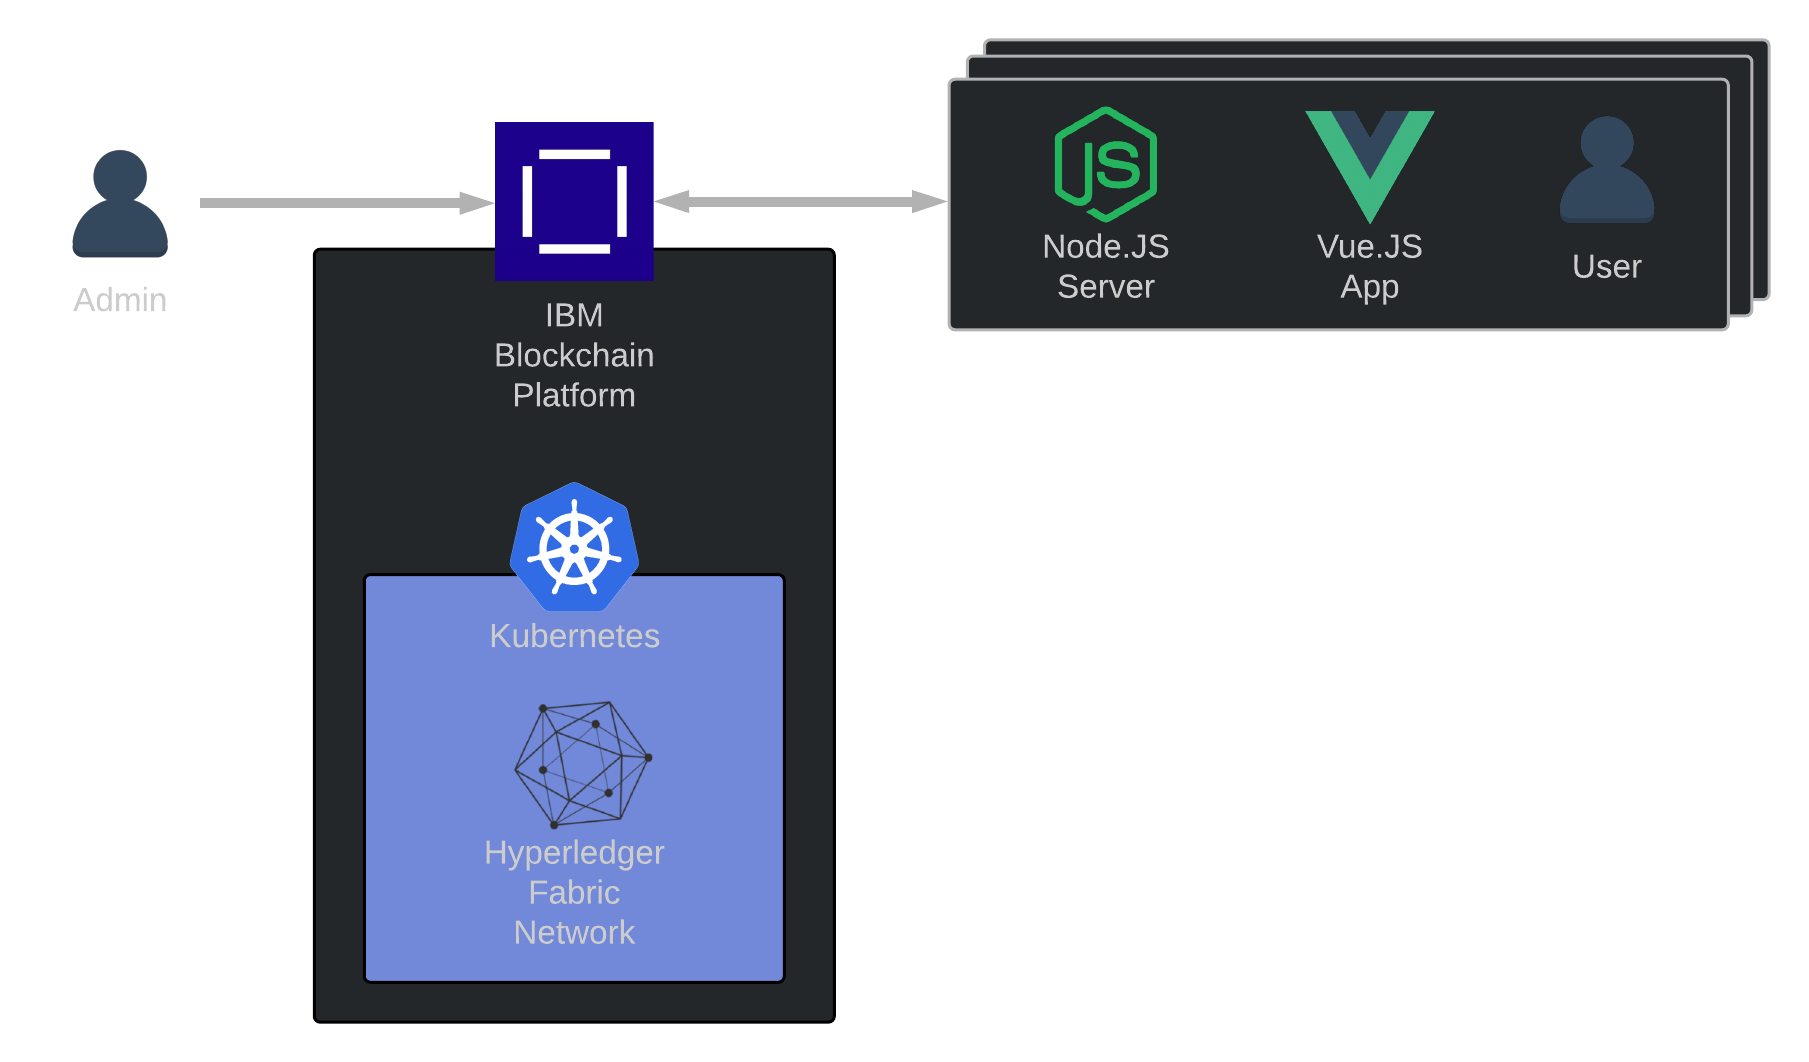
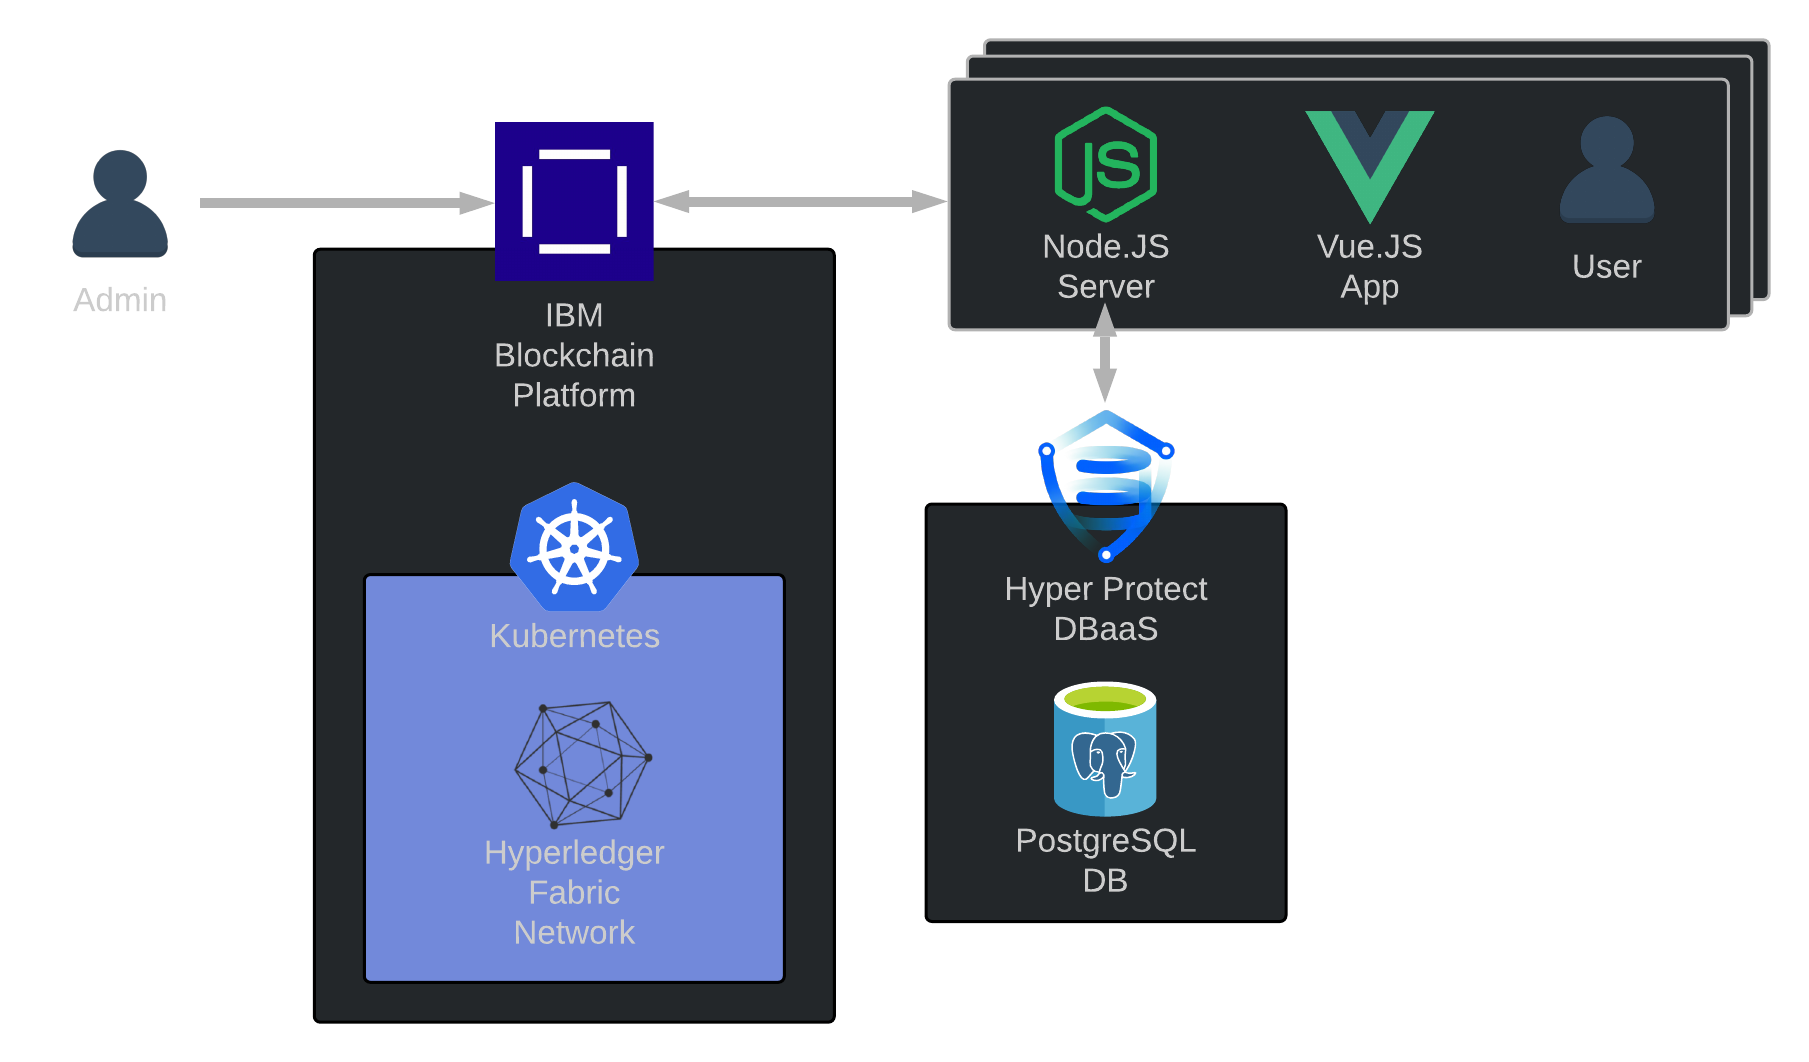
Actualizar README.md

Changed region(s): [[0.4953, 0.2797, 0.712, 0.8701]]

diff --git a/README.md b/README.md
@@ -1,8 +1,38 @@
-# hackmx2021
+# Reto IBM | Sistema de elecciones en México - hackmx2021
 
-# Diagrams
-To have a way to visualize the system without going to deep into details, we have diagrams.
+# Suposiciones, puntos clave, objetivos y lo que esta fuera
 
-## Architecture
+Para reducir el alcance de nuestro proyecto, se establecieron límites de lo que queremos hacer. Al igual que lo que debe de tener obligatoriamente, como aquello que no cubre nuestra propuesta.
+
+## Suposiciones
+* Se tienen recursos vastos para llevar a cabo el proyecto
+  * Recursos siendo poder económico, capital humano, equipo de cómputo
+* Se tiene accesos a datos relacionados del Instituto Nacional Electoral (INE)
+* Los datos deben quedarse en territorio nacional
+* Los votos deben ser secretos, pero la cantidad de votos no
+
+## Puntos clave
+* Seguridad debe ser la prioridad mayor
+  * Esto es en todos los puntos y conexiones entre los mismos del sistema
+* Transparencia es algo a promover para los ciudadanos
+
+## Objetivos
+
+En general, el objetivo es proponer un sistema viable. Con sistema no nos referimos a uno computacional, si no al conjunto de actores y sus interacciones relacionadas con las elecciones como toda una unidad. Y con viable no queremos decir un producto viable mínimo (MVP en sus siglas en inglés), que en nuestra opinión se queda corto de lo que sería requisito para su implementación real. Preferimos utilizar el termino simple adorable completo (SLC en sus siglas en inglés). Es decir, que este no tenga que ir sumando funcionalidades, si no que todo este completamente funcional.
+
+El sistema debe poder ser replicable en distintas regiones del país. Aunque conocemos las limitaciones, y en ciertas áreas reconocemos que la implementación no podría ser posible, teniendo que recurrir a otro tipo de sistema (como el que actualmente existe).
+
+
+## Fuera del alcance
+* Datos biométricos, especialmente reconocimiento facial
+* Faltas a la integridad humana tales como la extorsión o el soborno, o prácticas no éticas en el ejercicio del servicio público
+
+# Diagramas
+Para poder visualizar el sistema sin entrar en detalles, tenemos los siguientes diagramas.
+Estos representan la arquitectura propuesta por nuestro equipo. Algunas de las partes no se implementan por falta de tiempo.
+
+## Arquitectura
+### Panorama General
 ![Alt text](docs/diagrams/architecture_1.png?raw=true)
+### Blockchain
 ![Alt text](docs/diagrams/architecture_2.png?raw=true)
